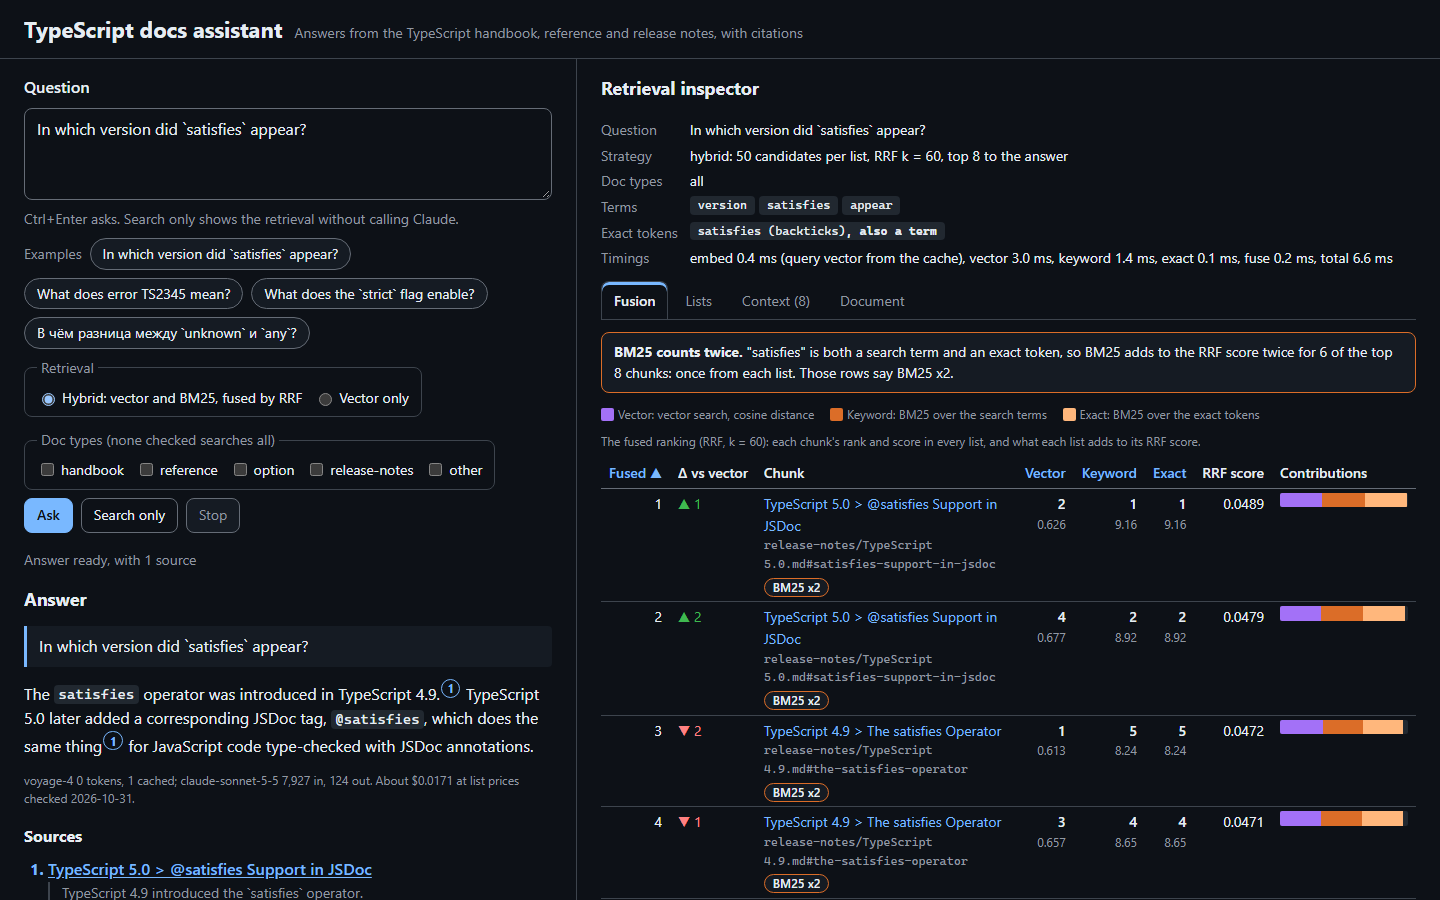
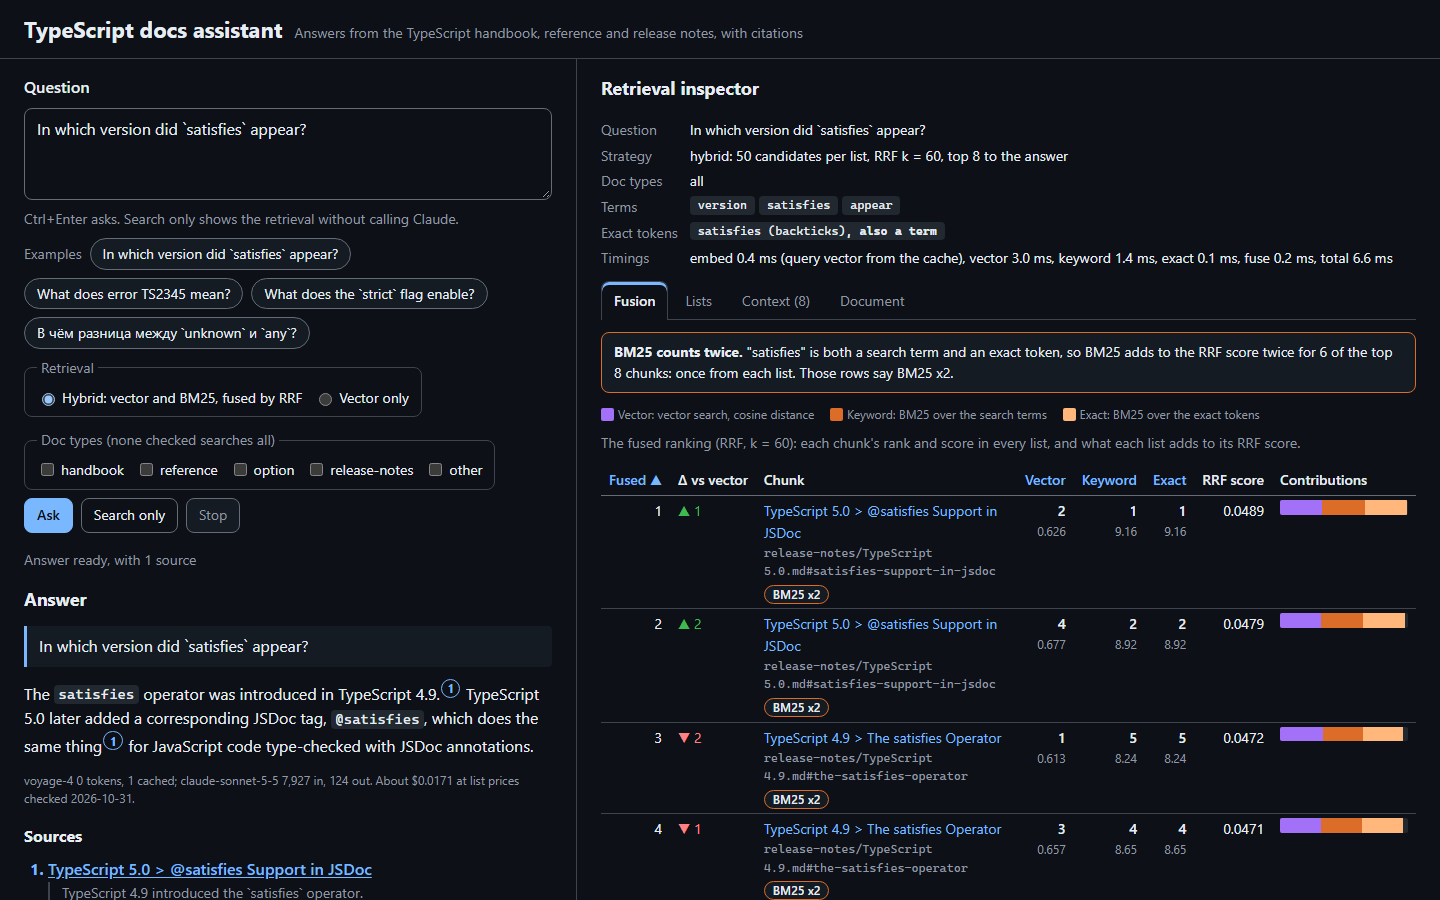
fix(ui): reflow at 320 CSS px, with a story that checks it
At 320 CSS px (WCAG 1.4.10: 1280 px at 400% zoom) the chat and the inspector
already stacked, but the page scrolled to 550 px wide:
- The fusion table's visually hidden text is absolutely positioned, so it
  escaped its scroll box and widened the page. The box now contains it.
- The tab list scrolled; the tabs now wrap.
- Long URLs and anchors had nowhere to wrap; links and cards now break them.
- A sentence in the fusion table's caption needed sideways scrolling to read.
  It moved above the table, with a short hidden caption left for screen readers.

The fusion table now uses the same focusable box as answer tables: its
right-hand columns hold nothing focusable, so a keyboard could not reach them.

Reflow320 runs at a real 320 by 256 viewport in both schemes. It walks every
element on each tab and fails on anything past the page edge, or any sideways
scroller but a table's or code block's box, and checks that both really
overflow there, so axe's scrollable-region rule has something to check.

diff --git a/packages/ui/src/DocsAssistant.stories.tsx b/packages/ui/src/DocsAssistant.stories.tsx
@@ -2,7 +2,7 @@ import type { Meta, StoryObj } from '@storybook/react-vite'
 import { expect, fn, userEvent, waitFor, within } from 'storybook/test'
 
 import { DocsAssistant } from './DocsAssistant.tsx'
-import { answerFixture, documentFixture } from './fixtures.ts'
+import { answerFixture, documentFixture, tableAnswerFixture } from './fixtures.ts'
 import { replayGate, replayTransport } from './lib/replay.ts'
 
 const question = 'In which version did `satisfies` appear?'
@@ -210,6 +210,112 @@ export const Stop: Story = {
     // The abort reached the transport, which is what stops the Claude stream.
     await waitFor(() => expect(onStoppedAskEnd).toHaveBeenCalledWith('aborted'))
     await expect(onStoppedAskEnd).toHaveBeenCalledOnce()
+  },
+}
+
+/** The only boxes allowed to scroll sideways: a table's or a code block's. */
+const WIDE_BOX = '[role="group"][tabindex="0"]'
+
+function describeElement(element: Element): string {
+  const name = element.getAttribute('aria-label') ?? element.getAttribute('role') ?? ''
+  const text = element.textContent.slice(0, 40)
+  return `<${element.tagName.toLowerCase()}> ${name} "${text}"`
+}
+
+/** Everything that would make the page scroll sideways at the current width. */
+function reflowProblems(root: HTMLElement): string[] {
+  const page = document.documentElement
+  const problems: string[] = []
+  if (page.scrollWidth > page.clientWidth) {
+    problems.push(`the page scrolls: ${String(page.scrollWidth)} in ${String(page.clientWidth)}`)
+  }
+  for (const element of root.querySelectorAll('*')) {
+    const box = element.closest(WIDE_BOX)
+    // What is inside a table's or a code block's box may be as wide as it likes.
+    if (box !== null && box !== element) continue
+    const right = element.getBoundingClientRect().right
+    if (right > page.clientWidth + 0.5) {
+      problems.push(`${describeElement(element)} ends at ${right.toFixed(0)}`)
+    }
+    if (box === element) continue
+    const { overflowX } = getComputedStyle(element)
+    const scrolls = overflowX === 'auto' || overflowX === 'scroll'
+    if (scrolls && element.scrollWidth > element.clientWidth) {
+      problems.push(`${describeElement(element)} scrolls sideways`)
+    }
+  }
+  return problems
+}
+
+/**
+ * Reflow at 320 CSS px (WCAG 1.4.10: 1280 px at 400% zoom): the chat and the
+ * inspector stack, and nothing scrolls sideways but tables and code blocks.
+ * Uses the table answer, whose table and code really are wider than the page,
+ * so axe's scrollable-region rule has something to check here.
+ */
+export const Reflow320: Story = {
+  parameters: {
+    viewport: {
+      options: {
+        reflow: { name: '320 CSS px', type: 'mobile', styles: { width: '320px', height: '256px' } },
+      },
+    },
+  },
+  globals: { viewport: { value: 'reflow' } },
+  args: {
+    transport: replayTransport({
+      // With one more code block, with a line too long for the page.
+      events: [
+        ...tableAnswerFixture.events.slice(0, -1),
+        {
+          type: 'text',
+          text: '\n\n```ts\nconst aNameThatGoesOnAndOn: Record<string, unknown> = { key: 1, other: 2 }\n```\n',
+        },
+        ...tableAnswerFixture.events.slice(-1),
+      ],
+      // The layout is what counts here, so any document can stand in for this trace's.
+      documents: tableAnswerFixture.events.flatMap((event) =>
+        event.type === 'trace'
+          ? event.trace.context.flatMap((chunk) => {
+              const path = event.trace.chunks[chunk.chunkId]?.docPath
+              return path === undefined ? [] : [{ ...documentFixture, path }]
+            })
+          : [],
+      ),
+    }),
+  },
+  play: async ({ canvasElement }) => {
+    const canvas = within(canvasElement)
+    await expect(window.innerWidth).toBe(320)
+    await expect(reflowProblems(canvasElement)).toEqual([])
+
+    await userEvent.type(canvas.getByRole('textbox', { name: 'Question' }), question)
+    await userEvent.click(canvas.getByRole('button', { name: 'Ask' }))
+    await waitFor(() =>
+      expect(canvas.getByRole('status')).toHaveTextContent('Answer ready, with 4 sources'),
+    )
+
+    // Stacked: the inspector starts below the chat.
+    const answerBottom = canvas.getByRole('article').getBoundingClientRect().bottom
+    const inspector = canvas.getByRole('region', { name: 'Retrieval inspector' })
+    await expect(inspector.getBoundingClientRect().top).toBeGreaterThanOrEqual(answerBottom)
+
+    // The table and the long code line do not fit, and scroll in their own boxes.
+    const box = canvas.getByRole('group', { name: 'Table: any, unknown' })
+    await expect(box.scrollWidth).toBeGreaterThan(box.clientWidth)
+    const code = canvas.getAllByRole('group', { name: 'Code example' }).at(-1)
+    await expect(code?.scrollWidth).toBeGreaterThan(code?.clientWidth ?? Infinity)
+    await expect(reflowProblems(canvasElement)).toEqual([])
+
+    for (const name of ['Lists', /^Context/, 'Document', 'Fusion']) {
+      await userEvent.click(canvas.getByRole('tab', { name }))
+      await expect(canvas.getByRole('tabpanel')).toBeVisible()
+      await expect(reflowProblems(canvasElement)).toEqual([])
+    }
+    await canvas.findByRole('group', { name: 'Fused ranking' })
+    await userEvent.click(canvas.getByRole('tab', { name: 'Document' }))
+    await canvas.findByRole('list', { name: 'Chunks of TypeScript 4.9' })
+    await expect(reflowProblems(canvasElement)).toEqual([])
   },
 }
 

diff --git a/packages/ui/src/inspector/FusionView.tsx b/packages/ui/src/inspector/FusionView.tsx
@@ -19,6 +19,7 @@ import {
   type SortDirection,
   type SortKey,
 } from '../lib/fusion.ts'
+import { ScrollRegion } from '../lib/ScrollRegion.tsx'
 import { ChunkButton } from './ChunkButton.tsx'
 import styles from './Inspector.module.css'
 
@@ -197,12 +198,14 @@ export function FusionView({ trace, selectedChunkId, onSelectChunk }: FusionView
           </li>
         ))}
       </ul>
-      <div className={styles.scroll}>
+      {/* Outside the box: a sentence should not need sideways scrolling to read. */}
+      <p className={styles.note}>
+        The fused ranking (RRF, k = {trace.fusion.k}): each chunk&apos;s rank and score in every
+        list, and what each list adds to its RRF score.
+      </p>
+      <ScrollRegion label="Fused ranking">
         <table className={styles.table}>
-          <caption>
-            The fused ranking (RRF, k = {trace.fusion.k}): each chunk&apos;s rank and score in every
-            list, and what each list adds to its RRF score.
-          </caption>
+          <caption className={common.srOnly}>Fused ranking</caption>
           <thead>
             <tr>
               <SortHeader
@@ -274,7 +277,7 @@ export function FusionView({ trace, selectedChunkId, onSelectChunk }: FusionView
             ))}
           </tbody>
         </table>
-      </div>
+      </ScrollRegion>
       {rows.length > FUSION_ROWS && (
         <button
           type="button"

diff --git a/packages/ui/src/inspector/Inspector.module.css b/packages/ui/src/inspector/Inspector.module.css
@@ -96,23 +96,11 @@
   background: var(--color-list-exact);
 }
 
-.scroll {
-  overflow-x: auto;
-}
-
 .table {
   width: 100%;
   border-collapse: collapse;
   font-size: var(--text-sm);
   font-variant-numeric: tabular-nums;
-}
-
-.table caption {
-  text-align: start;
-  caption-side: top;
-  padding-bottom: var(--space-2);
-  color: var(--color-text-muted);
-  font-size: var(--text-xs);
 }
 
 .table th {

diff --git a/packages/ui/src/lib/ScrollRegion.module.css b/packages/ui/src/lib/ScrollRegion.module.css
@@ -1,4 +1,8 @@
+/* position: relative keeps absolutely positioned content in the box: the
+   visually hidden text in a wide table would otherwise escape it and make the
+   whole page scroll. */
 .region {
+  position: relative;
   overflow-x: auto;
 }
 

diff --git a/packages/ui/src/inspector/Tabs.module.css b/packages/ui/src/inspector/Tabs.module.css
@@ -1,8 +1,9 @@
+/* Tabs wrap at narrow widths: only tables and code blocks scroll sideways. */
 .tablist {
   display: flex;
+  flex-wrap: wrap;
   gap: var(--space-1);
   border-bottom: 1px solid var(--color-border);
-  overflow-x: auto;
 }
 
 .tab {

diff --git a/packages/ui/src/chat/QuestionForm.module.css b/packages/ui/src/chat/QuestionForm.module.css
@@ -60,7 +60,9 @@
   gap: var(--space-3);
 }
 
+/* min-inline-size: a fieldset otherwise refuses to shrink below its content. */
 .fieldset {
+  min-inline-size: 0;
   display: flex;
   flex-wrap: wrap;
   gap: var(--space-1) var(--space-3);

diff --git a/packages/ui/src/lib/common.module.css b/packages/ui/src/lib/common.module.css
@@ -49,9 +49,11 @@
   filter: brightness(1.1);
 }
 
+/* A link text may be a whole URL, with nowhere to wrap. */
 .link {
   color: var(--color-accent);
   text-underline-offset: 2px;
+  overflow-wrap: anywhere;
 }
 
 .badge {

diff --git a/packages/ui/src/inspector/Views.module.css b/packages/ui/src/inspector/Views.module.css
@@ -77,6 +77,7 @@
 }
 
 .card {
+  overflow-wrap: anywhere;
   border: 1px solid var(--color-border);
   border-inline-start: 4px solid var(--color-border);
   border-radius: var(--radius-2);

diff --git a/packages/ui/src/chat/Sources.module.css b/packages/ui/src/chat/Sources.module.css
@@ -33,6 +33,7 @@
 }
 
 .quote {
+  overflow-wrap: anywhere;
   margin: 0;
   padding-inline-start: var(--space-3);
   border-inline-start: 2px solid var(--color-border);
